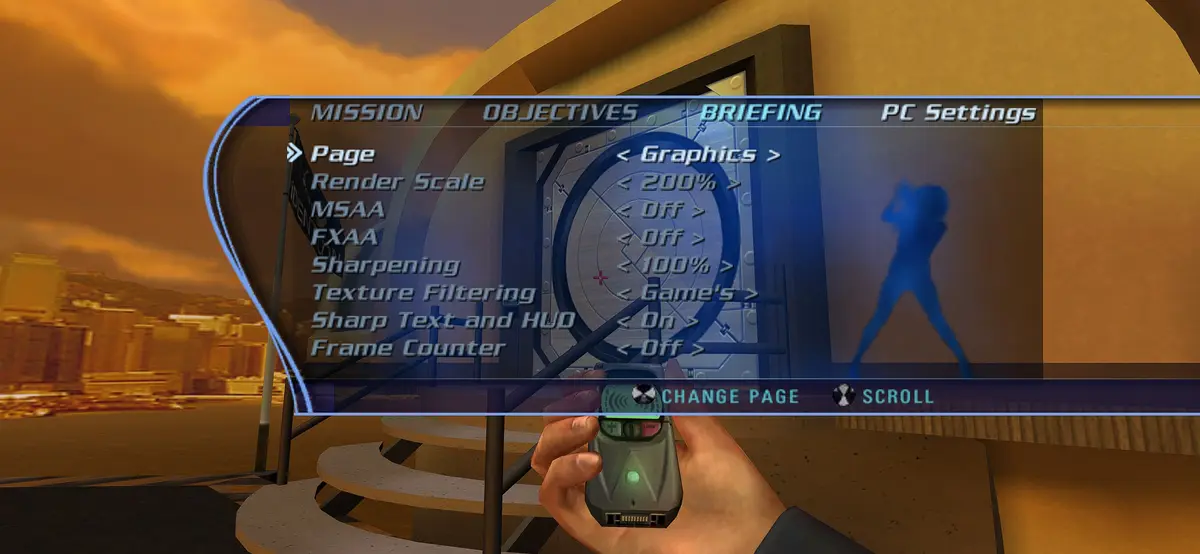
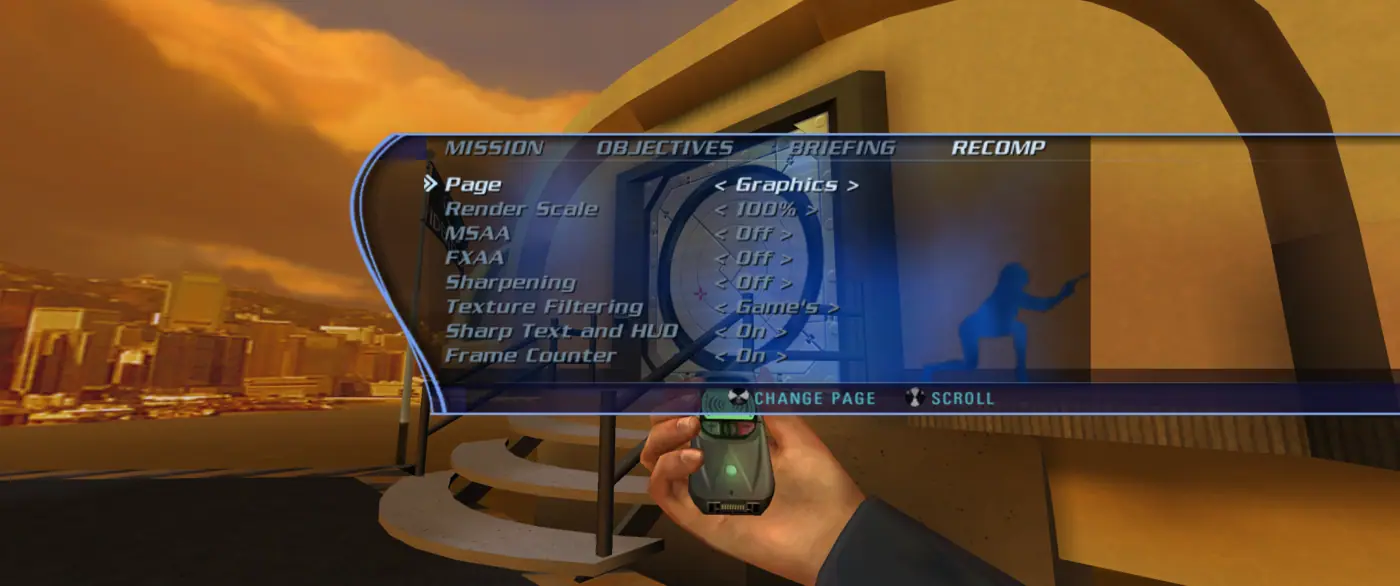
RECOMP: the new graphics options, a Picture page; README: his screenshots, new slider, high frame rates; progress

diff --git a/src/common/pc_rows.cpp b/src/common/pc_rows.cpp
@@ -11,29 +11,31 @@
 namespace auf {
 namespace {
 enum Id {
-    kRenderScale, kMsaa, kFxaa, kSharpening, kFiltering, kSharpText, kFrameCounter,
+    kRenderScale, kMsaa, kFxaa, kAlphaEdges, kFiltering, kSharpening, kScaleFilter, kSharpText, kWorldTextures, kFrameCounter,
     kDisplayMode, kVsync, kFrameCap, kAspect, kRenderer, kFps60, kFov,
     kMouseSpeed, kInvertMouse, kAutoAim,
     kLanguage, kSkipIntro, kPauseUnfocused, kMore, kIds
 };
 const char* const kRowNames[3] = {"PC Settings", "Param\xE8tres PC", "PC-Einstellungen"};
 const char* const kTabLabel[3] = {"Page", "Page", "Seite"};
-const char* const kTabNames[3][4] = {{"Graphics", "Display", "Controls", "Game"},
-                                     {"Graphismes", "Affichage", "Commandes", "Jeu"},
-                                     {"Grafik", "Anzeige", "Steuerung", "Spiel"}};
+const char* const kTabNames[3][5] = {{"Graphics", "Picture", "Display", "Controls", "Game"},
+                                     {"Graphismes", "Image", "Affichage", "Commandes", "Jeu"},
+                                     {"Grafik", "Bild", "Anzeige", "Steuerung", "Spiel"}};
 const char* const kLabels[3][kIds] = {
-    {"Render Scale", "MSAA", "FXAA", "Sharpening", "Texture Filtering", "Sharp Text and HUD", "Frame Counter",
-     "Display Mode", "Vertical Sync", "Frame Rate Cap", "Aspect Ratio *", "Renderer *", "60 FPS on Foot *", "Field of View",
+    {"Render Scale", "MSAA", "Edge Smoothing", "Smooth Alpha Edges", "Texture Filtering", "Sharpening", "Scaling Filter", "Sharp Text and HUD", "Enhanced Textures", "Frame Counter",
+     "Display Mode", "Vertical Sync", "Frame Rate Cap", "Aspect Ratio *", "Renderer *", "High Frame Rate *", "Field of View",
      "Mouse Sensitivity", "Invert Mouse", "Auto-aim",
      "Language *", "Skip Intro Movies", "Pause in Background", "More Settings"},
-    {"\xC9" "chelle de rendu", "MSAA", "FXAA", "Nettet\xE9", "Filtrage des textures", "Texte et ATH nets", "Compteur d'images",
-     "Mode d'affichage", "Synchro verticale", "Limite d'images", "Format d'image *", "Moteur de rendu *", "60 i/s \xE0 pied *", "Champ de vision",
+    {"\xC9" "chelle de rendu", "MSAA", "Lissage des bords", "Bords alpha lisses", "Filtrage des textures", "Nettet\xE9", "Filtre d'\xE9" "chelle", "Texte et ATH nets", "Textures am\xE9lior\xE9" "es", "Compteur d'images",
+     "Mode d'affichage", "Synchro verticale", "Limite d'images", "Format d'image *", "Moteur de rendu *", "Images/s \xE9lev\xE9" "es *", "Champ de vision",
      "Sensibilit\xE9 souris", "Inverser la souris", "Vis\xE9" "e auto",
      "Langue *", "Passer les intros", "Pause en arri\xE8re-plan", "Plus d'options"},
-    {"Renderskalierung", "MSAA", "FXAA", "Sch\xE4rfe", "Texturfilterung", "Scharfer Text und HUD", "Bildz\xE4hler",
-     "Anzeigemodus", "V-Sync", "Bildratenlimit", "Seitenverh\xE4ltnis *", "Renderer *", "60 FPS zu Fu\xDF *", "Sichtfeld",
+    {"Renderskalierung", "MSAA", "Kantengl\xE4ttung", "Weiche Alpha-Kanten", "Texturfilterung", "Sch\xE4rfe", "Skalierungsfilter", "Scharfer Text und HUD", "Bessere Texturen", "Bildz\xE4hler",
+     "Anzeigemodus", "V-Sync", "Bildratenlimit", "Seitenverh\xE4ltnis *", "Renderer *", "Hohe Bildrate *", "Sichtfeld",
      "Mausempfindlichkeit", "Maus invertieren", "Zielhilfe",
      "Sprache *", "Intros \xFC" "berspringen", "Pause im Hintergrund", "Weitere Optionen"}};
+const char* const kBilinear[3] = {"Bilinear", "Bilin\xE9" "aire", "Bilinear"};
+const char* const kSharp[3] = {"Sharp", "Net", "Scharf"};
 const char* const kOff[3] = {"Off", "Non", "Aus"};
 const char* const kOn[3] = {"On", "Oui", "An"};
 const char* const kGames[3] = {"Game's", "Du jeu", "Vom Spiel"};
@@ -45,7 +47,8 @@ struct Tab {
     int count;
     int ids[kPcRows - 1];
 };
-const Tab kTabs[4] = {{7, {kRenderScale, kMsaa, kFxaa, kSharpening, kFiltering, kSharpText, kFrameCounter}},
+const Tab kTabs[5] = {{7, {kRenderScale, kMsaa, kFxaa, kAlphaEdges, kFiltering, kSharpening, kScaleFilter}},
+                      {4, {kSharpText, kWorldTextures, kFrameCounter, kMore}},
                       {7, {kDisplayMode, kVsync, kFrameCap, kAspect, kRenderer, kFps60, kFov}},
                       {4, {kMouseSpeed, kInvertMouse, kAutoAim, kMore}},
                       {4, {kLanguage, kSkipIntro, kPauseUnfocused, kMore}}};
@@ -70,7 +73,10 @@ std::string Plain(int id, int lang) {
             const char* names[] = {kOff[lang], "2x", "4x", "8x"};
             return names[s.msaa % 4];
         }
-        case kFxaa: return onoff(s.fxaa);
+        case kFxaa: return s.smaa ? "SMAA" : s.fxaa ? "FXAA" : kOff[lang];
+        case kAlphaEdges: return onoff(s.alpha_coverage);
+        case kScaleFilter: return s.scale_filter % 2 ? kSharp[lang] : kBilinear[lang];
+        case kWorldTextures: return onoff(s.world_textures);
         case kSharpening:
             if (!s.sharpen) return kOff[lang];
             std::snprintf(b, sizeof b, "%u%%", s.sharpen);
@@ -129,14 +135,22 @@ int Language() {
 
 void PcStep(int row, int dir) {
     if (!row) {
-        g_tab = (g_tab + 4 + dir) % 4;
+        g_tab = (g_tab + 5 + dir) % 5;
         return;
     }
     app::Settings& s = app::Get();
     switch (IdOf(row)) {
         case kRenderScale: s.render_percent = uint32_t(std::clamp(int(s.render_percent) + dir * 25, 25, 200)); break;
         case kMsaa: s.msaa = (s.msaa + 4 + uint32_t(dir)) % 4; break;
-        case kFxaa: s.fxaa = !s.fxaa; break;
+        case kFxaa: {  // off, FXAA, SMAA, as the settings window's Edge smoothing
+            const int edge = ((s.smaa ? 2 : s.fxaa ? 1 : 0) + 3 + dir) % 3;
+            s.fxaa = edge == 1;
+            s.smaa = edge == 2;
+            break;
+        }
+        case kAlphaEdges: s.alpha_coverage = !s.alpha_coverage; break;
+        case kScaleFilter: s.scale_filter = (s.scale_filter + 1) % 2; break;
+        case kWorldTextures: s.world_textures = !s.world_textures; break;
         case kSharpening: s.sharpen = uint32_t(std::clamp(int(s.sharpen) + dir * 10, 0, 100)); break;
         case kFiltering: {
             const uint32_t order[] = {0, 2, 4, 8, 16};

diff --git a/src/common/game_info.cpp b/src/common/game_info.cpp
@@ -177,8 +177,8 @@ const app::GameInfo app::kGame = {
                {"driving.xbe", "AgentUnderFireDriving"}},
     .options = {{"skip_intro", &auf::skip_intro, nullptr, "Skip intro movies", "Starts without the EA, MGM and logo movies"},
                 {"auto_aim", &auf::auto_aim, nullptr, "Auto-aim", "The game's aim assist, on foot and on mounted guns. Off by default"},
-                {"uncapped", &auf::uncapped, nullptr, "60 FPS",
-                 "On foot paced by the frame rate cap instead of the console's 30; driving at 60 instead of 50, which plays a fifth faster. Takes effect at the next start"},
+                {"uncapped", &auf::uncapped, nullptr, "High frame rate",
+                 "Paced by the frame rate cap instead of the console's 30 on foot; driving at 60 steps a second instead of 50, which plays a fifth faster, with frames in between above that. Vertical sync off gets the most. Takes effect at the next start"},
                 {"fov_percent", nullptr, &auf::fov_percent, "Field of view (%)",
                  "50 to 150; 100 is the game's. On foot and driving; the scope zooms in proportion"}},
     .load = LoadKeys,                     // DRIVING.XBE's keys apart (DrivingKeys)

diff --git a/README.md b/README.md
@@ -19,6 +19,38 @@ The European (PAL) Xbox release, title id 4541000D. `default.xbe` SHA-1 `3dbed4e
 `bond_eng.xbe` `66aace3859a5ca9a992f2d1845c2b5f5265fd9d6`, `bond_fre.xbe` `87b2d3c8b7b40916fe29b03490c84c4f690a4c12`,
 `bond_ger.xbe` `88d06191f3ba940394f258f138f0aa37f1ced1dd`, `DRIVING.XBE` `6b58e61ee8ce9aa2a1a357affe188af874cf05f4`.
 
+## Screenshots
+
+<p align="center">
+  <img src="docs/img/agentunderfire-on-foot.webp" alt="On foot at night, an armed guard running along a cobbled street" width="800">
+  <br>
+  <i>On foot, 3440x1440.</i>
+</p>
+
+<p align="center">
+  <img src="docs/img/agentunderfire-driving.webp" alt="The Aston Martin on a night street, with the radar's road map and the weapon panel" width="800">
+  <br>
+  <i>Driving, with the HUD kept in its centre.</i>
+</p>
+
+<p align="center">
+  <img src="docs/img/agentunderfire-gadget.webp" alt="The Q-Decryptor gadget in hand outside the helipad door at sunset" width="800">
+  <br>
+  <i>The first mission.</i>
+</p>
+
+<p align="center">
+  <img src="docs/img/agentunderfire-mansion.webp" alt="A wide view of a mansion at night" width="800">
+  <br>
+  <i>A cut scene in the game's letterbox.</i>
+</p>
+
+<p align="center">
+  <img src="docs/img/agentunderfire-keyboard-menu.webp" alt="Select Mission with the Backspace and Enter keys in its prompts" width="800">
+  <br>
+  <i>Menus show your keys while you play on keyboard and mouse.</i>
+</p>
+
 ## Features
 
 Set in the F1 window (or `settings.toml` beside the exe); the runtime's own display, graphics and controller options are there too.
@@ -27,18 +59,20 @@ Set in the F1 window (or `settings.toml` beside the exe); the runtime's own disp
 - **Auto-aim** - The game's aim assist is off by default; the F1 window turns it back on.
 - **Field of view** - 50 to 150% of the game's, on foot and driving.
 - **Skip intro movies** - Starts without the logos.
-- **60 FPS on foot** - Paced by the frame rate cap in the F1 window, 60 by default, instead of the console's 30.
+- **High frame rates** - On foot the game follows the frame rate cap (60 by default, up to 240 or unlimited) with its speed tied to real time, instead of the console's 30. Driving missions and mounted guns run at 60 game steps a second instead of PAL's 50, which plays a fifth faster, and above a cap of 60 draw frames in between: blended when driving, carried ahead with no added delay on a gun. Turn Vertical Sync off for the most frames there.
+- **Slow motion** - Driving cut scenes' slow motion is held to half speed, so it is not down to a quarter of the frames.
+- **Screenshots** - F12 saves the frame as a full resolution PNG in the `screenshots` folder beside the game, without the settings window.
 - **Mouse and keyboard** - The mouse looks directly on foot and aims mounted guns directly, works the menus, and zooms a scope with the wheel. Menus and hints on foot show your keys. On-foot menus show a pointer: the item under it highlights and a click selects it.
-- **PC Settings** - In the game's own menus: a row on the main menu and a tab on the pause screen, on foot and driving, with pages for graphics, display, controls and game. Key bindings and the rest are in the F1 window.
+- **PC Settings** - In the game's own menus: a row on the main menu and a RECOMP tab on the pause screen, on foot and driving, with pages for graphics, picture, display, controls and game. Key bindings and the rest are in the F1 window.
 - **Menu pointer** - In the menus and pause screens the item under the mouse highlights and a click selects it.
 - **Languages** - English, French and German, chosen in the settings window (F1), at the next start.
 - **Achievements** - Each mission, medals, and every gold and platinum.
 - **Sharp 2D** - Text and HUD pictures enlarged with sharp edges.
 
 <p align="center">
-  <img src="docs/img/agentunderfire-pc-settings-pause.webp" alt="The pause screen with a PC Settings tab beside Mission, Objectives and Briefing, showing the Graphics page" width="800">
+  <img src="docs/img/agentunderfire-pc-settings-pause.webp" alt="The pause screen with a RECOMP tab beside Mission, Objectives and Briefing, showing the Graphics page" width="800">
   <br>
-  <i>PC Settings as a tab of the pause screen, on foot and driving.</i>
+  <i>The RECOMP tab of the pause screen, on foot and driving.</i>
 </p>
 
 <p align="center">
@@ -74,9 +108,9 @@ Keys can be changed in the F1 window.
 In PC Settings or the settings window (F1, Graphics). These are shots of one spot at 3440x1440, taken one after another and lined up, so anything moving differs between them.
 
 <p align="center">
-  <img src="docs/img/agentunderfire-settings-wipe.webp" alt="A wipe between all settings off and render scale 200%, MSAA 4x and sharpening" width="800">
+  <img src="docs/img/agentunderfire-settings-wipe.webp" alt="A wipe across a street behind railings between all settings off and everything on" width="800">
   <br>
-  <i>All off vs. render scale 200%, MSAA 4x and sharpening.</i>
+  <i>All off vs. everything on.</i>
 </p>
 
 <p align="center">
@@ -86,7 +120,11 @@ In PC Settings or the settings window (F1, Graphics). These are shots of one spo
 </p>
 
 - **MSAA** smooths the edges of the 3D scene and keeps textures sharp. The more samples, the slower.
-- **FXAA** smooths the finished frame, HUD included, and softens it a little.
+- **Edge smoothing** works on the finished frame, HUD included: FXAA softens it a little, SMAA keeps it crisper.
+- **Smooth alpha edges** soften fences, leaves and other cut-out textures, with MSAA on.
+- **Texture filtering** keeps roads and walls sharp into the distance.
+- **Scaling filter** chooses how the frame reaches the screen when render scale is not 100%: bilinear, or sharp.
+- **Enhanced textures** double the 3D scene's textures in the background. They use more video memory and can cause a brief hitch as new ones appear.
 - **Render scale** draws the picture larger than the screen: the smoothest fine detail, and the slowest.
 
 <p align="center">

diff --git a/PROGRESS.md b/PROGRESS.md
@@ -23,6 +23,10 @@ Newest first. Each entry: date, what changed, what was learned, what's next.
 
 ## Log
 
+### 2026-11-01 - RECOMP rows for the new options; README shots
+- Harry: vsync fix confirmed; asked for the new settings in game. Graphics page: render scale, MSAA, edge smoothing (off, FXAA, SMAA), smooth alpha edges, filtering, sharpening, scaling filter. A new Picture page: sharp text, enhanced textures, frame counter. In three languages; "60 FPS on Foot" is "High Frame Rate". Seen on the driving pause headless, pages step.
+- README: his shots for on foot, driving, gadget, mansion, keyboard menu and the pause; slider from his railing shots, 7 as all off (assumed, first of the set) and 10 as everything on (his word). His other two railing shots are not labelled, so the edge and sharpness comparisons stay the older ones.
+
 ### 2026-11-01 - In-between frames: flicker open, stopped after three attempts
 - Harry: textures flicker or shift whenever the frame rate is above 60, vsync on or off; still there on c0c59d8. Below or at 60 the blending is off and it is fine. Branch driving-interp, sdk frame-interp; not on main, and fork main untouched.
 - Tried, each cured what it aimed at but not this: (1) motion follows the clock, not squeezed into the time left; (2) a draw with no match follows a matched one of the same matrix (capture 201230 shows one world matrix, so that part is proven); (3) one timeline, no step shown as drawn among blended ones.
